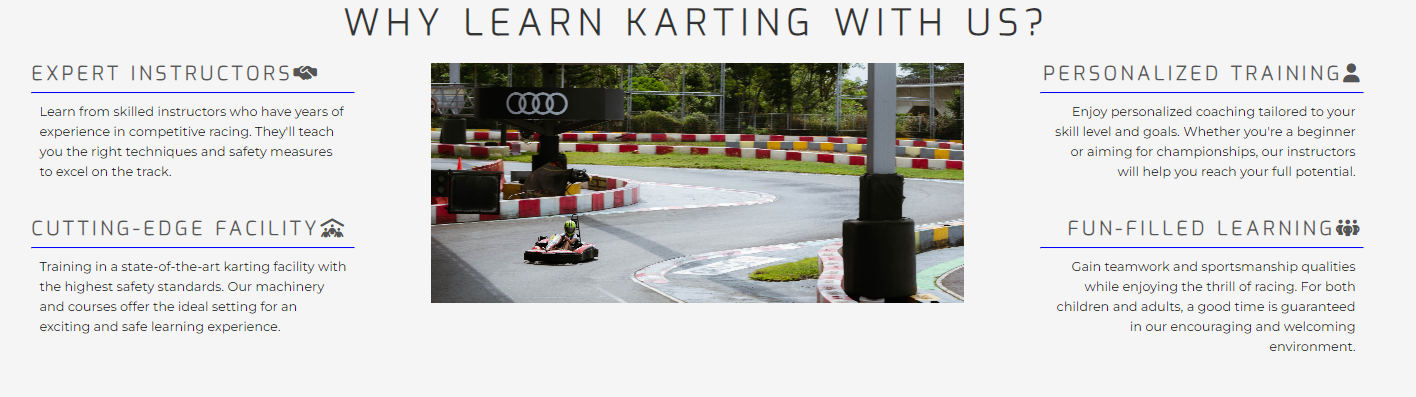
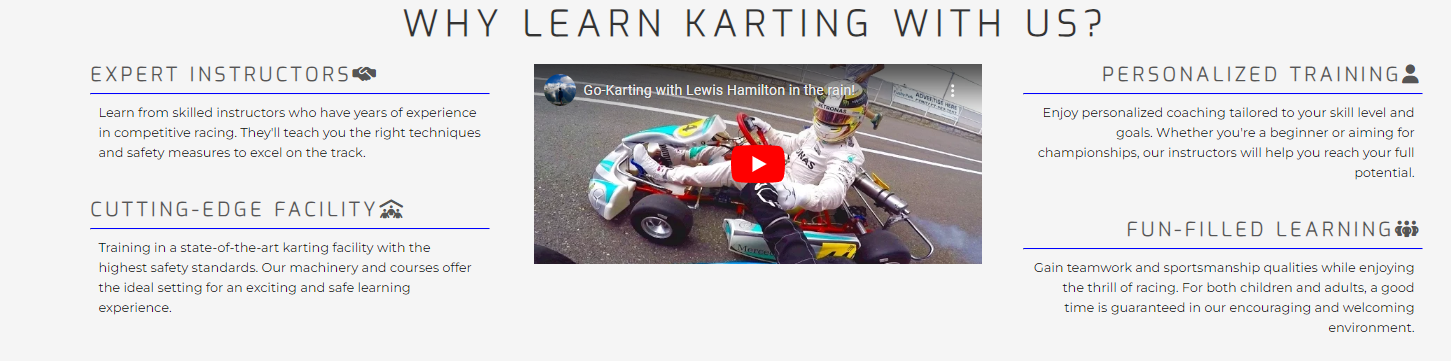
Modify read me file

diff --git a/index.html b/index.html
@@ -1,9 +1,9 @@
 <!DOCTYPE html>
 <html lang="en">
   <head>
-    <meta charset="UTF-8">
-    <meta http-equiv="X-UA-Compatible" content="IE=edge">
-    <meta name="viewport" content="width=device-width, initial-scale=1.0">
+    <meta charset="UTF-8" />
+    <meta http-equiv="X-UA-Compatible" content="IE=edge" />
+    <meta name="viewport" content="width=device-width, initial-scale=1.0" />
     <!-- Meta tags for search engines -->
     <meta
       name="description"
@@ -34,15 +34,11 @@
       href="assets/favicon/go-kart.png"
     />
 
-
     <!-- Stylesheet -->
     <link rel="stylesheet" href="assets/css/style.css" />
   </head>
 
-
   <body>
-
-
     <!-- Header -->
     <header>
       <a href="index.html">
@@ -53,7 +49,6 @@
       <label for="nav-toggle" class="nav-toggle-label"
         ><i class="fa-solid fa-bars" style="color: #000000"></i
       ></label>
-
 
       <!--Nav menu-->
       <nav>
@@ -81,7 +76,6 @@
         </div>
       </section>
 
-
       <!--the code under was created with the help of the Love running project-->
 
       <section id="reasons">
@@ -92,7 +86,7 @@
               <h3>
                 Expert Instructors<i class="fa-solid fa-handshake-simple"></i>
               </h3>
-              <hr>
+              <hr />
               <p>
                 Learn from skilled instructors who have years of experience in
                 competitive racing. They'll teach you the right techniques and
@@ -103,7 +97,7 @@
               <h3>
                 Cutting-edge facility<i class="fa-solid fa-people-roof"></i>
               </h3>
-              <hr>
+              <hr />
               <p>
                 Training in a state-of-the-art karting facility with the highest
                 safety standards. Our machinery and courses offer the ideal
@@ -115,7 +109,7 @@
           <div id="personalized-training">
             <div>
               <h3>Personalized training<i class="fa-solid fa-user"></i></h3>
-              <hr>
+              <hr />
               <p>
                 Enjoy personalized coaching tailored to your skill level and
                 goals. Whether you're a beginner or aiming for championships,
@@ -126,28 +120,27 @@
               <h3>
                 Fun-filled learning<i class="fa-solid fa-people-group"></i>
               </h3>
-              <hr>
+              <hr />
               <p>
-                Gain teamwork and sportsmanship qualities while enjoying
-                the thrill of racing. For both children and adults, a good time
-                is guaranteed in our encouraging and welcoming environment.
+                Gain teamwork and sportsmanship qualities while enjoying the
+                thrill of racing. For both children and adults, a good time is
+                guaranteed in our encouraging and welcoming environment.
               </p>
             </div>
           </div>
 
-          
           <div id="go-kart-video">
-            <iframe src="https://www.youtube.com/embed/5moH0gXC5iQ?rel=0"
-          width="600"
-          height="450"
-          frameborder="0"
-          allowfullscreen></iframe>
+            <iframe
+              src="https://www.youtube.com/embed/5moH0gXC5iQ?rel=0"
+              width="600"
+              height="450"
+              frameborder="0"
+              allowfullscreen
+            ></iframe>
           </div>
         </div>
       </section>
     </main>
-
-
 
     <!-- with the help of watching the Coders Coffeehouse video I coded this sign up
     form section -->
@@ -178,7 +171,7 @@
           required
         />
 
-        <br>
+        <br />
 
         <label for="email_address">Email Address</label>
         <input
@@ -189,7 +182,7 @@
           required
         />
 
-        <br>
+        <br />
 
         <label for="experience">Experience</label>
         <div class="experience-dropdown">
@@ -209,73 +202,74 @@
 
     <!--contact section-->
     <section id="contact">
-        <div id="contact-info">
-            <h2>Contact Us</h2>
-            <h3>Get in touch with us</h3>
-            <p><i class="fa-solid fa-map-marker"></i>123 Fun Street, Kartland</p>
-            <p><i class="fa-solid fa-phone"></i>Phone: +123456-7890</p>
-            <p><i class="fa-solid fa-envelope"></i>Email: info@funkart.com</p>
-        
-         <!--Google maps map imported (was inspired by the Coders Coffeehouse project)-->
-            <iframe
-            src="https://www.google.com/maps/embed?pb=!1m18!1m12!1m3!1d2452.35298453154!2d-1.0172383230634627!3d52.073303869205226!2m3!1f0!2f0!3f0!3m2!1i1024!2i768!4f13.1!3m3!1m2!1s0x48771c5823926c25%3A0x1142afb591c324a6!2sSilverstone%20Circuit!5e0!3m2!1sde!2sat!4v1690759806449!5m2!1sde!2sat"
-            width="600" height="450" style="border:0;" allowfullscreen="" loading="lazy"
-            referrerpolicy="no-referrer-when-downgrade"></iframe>
-            </div>
+      <div id="contact-info">
+        <h2>Contact Us</h2>
+        <h3>Get in touch with us</h3>
+        <p><i class="fa-solid fa-map-marker"></i>123 Fun Street, Kartland</p>
+        <p><i class="fa-solid fa-phone"></i>Phone: +123456-7890</p>
+        <p><i class="fa-solid fa-envelope"></i>Email: info@funkart.com</p>
 
-
+        <!--Google maps map imported (was inspired by the Coders Coffeehouse project)-->
+        <iframe
+          src="https://www.google.com/maps/embed?pb=!1m18!1m12!1m3!1d2452.35298453154!2d-1.0172383230634627!3d52.073303869205226!2m3!1f0!2f0!3f0!3m2!1i1024!2i768!4f13.1!3m3!1m2!1s0x48771c5823926c25%3A0x1142afb591c324a6!2sSilverstone%20Circuit!5e0!3m2!1sde!2sat!4v1690759806449!5m2!1sde!2sat"
+          width="600"
+          height="450"
+          style="border: 0"
+          allowfullscreen=""
+          loading="lazy"
+          referrerpolicy="no-referrer-when-downgrade"
+        ></iframe>
+      </div>
     </section>
-
 
     <!-- Footer -->
 
-        <!--created with the help of watching the Love running and Coders Coffeehouse project-->
+    <!--created with the help of watching the Love running and Coders Coffeehouse project-->
 
-        <footer>
-          <ul id="social-networks">
-            <li>
-              <a
-                href="https://facebook.com/"
-                target="_blank"
-                rel="noopener"
-                aria-label="Visit our Facebook page (open in a new tab)"
-              >
-                <i class="fa-brands fa-facebook-f" style="color: #000000"></i>
-              </a>
-            </li>
-            <li>
-              <a
-                href="https://instagram.com/"
-                target="_blank"
-                rel="noopener"
-                aria-label="Visit our Instagram page (open in a new tab)"
-              >
-                <i class="fa-brands fa-instagram" style="color: #000000"></i>
-              </a>
-            </li>
-            <li>
-              <a
-                href="https://twitter.com/"
-                target="_blank"
-                rel="noopener"
-                aria-label="Visit our Twitter page (open in a new tab)"
-              >
-                <i class="fa-brands fa-twitter" style="color: #000000"></i>
-              </a>
-            </li>
-            <li>
-              <a
-                href="https://youtube.com/"
-                target="_blank"
-                rel="noopener"
-                aria-label="Visit our Youtube page (open in a new tab)"
-              >
-                <i class="fa-brands fa-youtube" style="color: #000000"></i>
-              </a>
-            </li>
-          </ul>
-        </footer>
-     
+    <footer>
+      <ul id="social-networks">
+        <li>
+          <a
+            href="https://facebook.com/"
+            target="_blank"
+            rel="noopener"
+            aria-label="Visit our Facebook page (open in a new tab)"
+          >
+            <i class="fa-brands fa-facebook-f" style="color: #000000"></i>
+          </a>
+        </li>
+        <li>
+          <a
+            href="https://instagram.com/"
+            target="_blank"
+            rel="noopener"
+            aria-label="Visit our Instagram page (open in a new tab)"
+          >
+            <i class="fa-brands fa-instagram" style="color: #000000"></i>
+          </a>
+        </li>
+        <li>
+          <a
+            href="https://twitter.com/"
+            target="_blank"
+            rel="noopener"
+            aria-label="Visit our Twitter page (open in a new tab)"
+          >
+            <i class="fa-brands fa-twitter" style="color: #000000"></i>
+          </a>
+        </li>
+        <li>
+          <a
+            href="https://youtube.com/"
+            target="_blank"
+            rel="noopener"
+            aria-label="Visit our Youtube page (open in a new tab)"
+          >
+            <i class="fa-brands fa-youtube" style="color: #000000"></i>
+          </a>
+        </li>
+      </ul>
+    </footer>
 
     <!--font awesome kit-->
     <script

diff --git a/assets/css/style.css b/assets/css/style.css
@@ -130,6 +130,7 @@ main {
     position: relative;
 }
 
+
 #cover-text {
     background-color: rgba(43, 33, 189, 0.568);
     font-size: 115%;
@@ -497,20 +498,20 @@ iframe {
 
 @media screen and (min-width: 1200px) {
 
-    
+
 
     #go-kart-video iframe {
-            position: absolute;
-            height: 90vw;
-            width: 90vw;
-            margin: 0 auto;
-            max-width: 560px;
-            max-height: 300px;
-            
-    
-        }
+        position: absolute;
+        height: 90vw;
+        width: 90vw;
+        margin: 0 auto;
+        max-width: 560px;
+        max-height: 300px;
 
-        /*advantages section*/
+
+    }
+
+    /*advantages section*/
 
     #advantages {
         display: flex;
